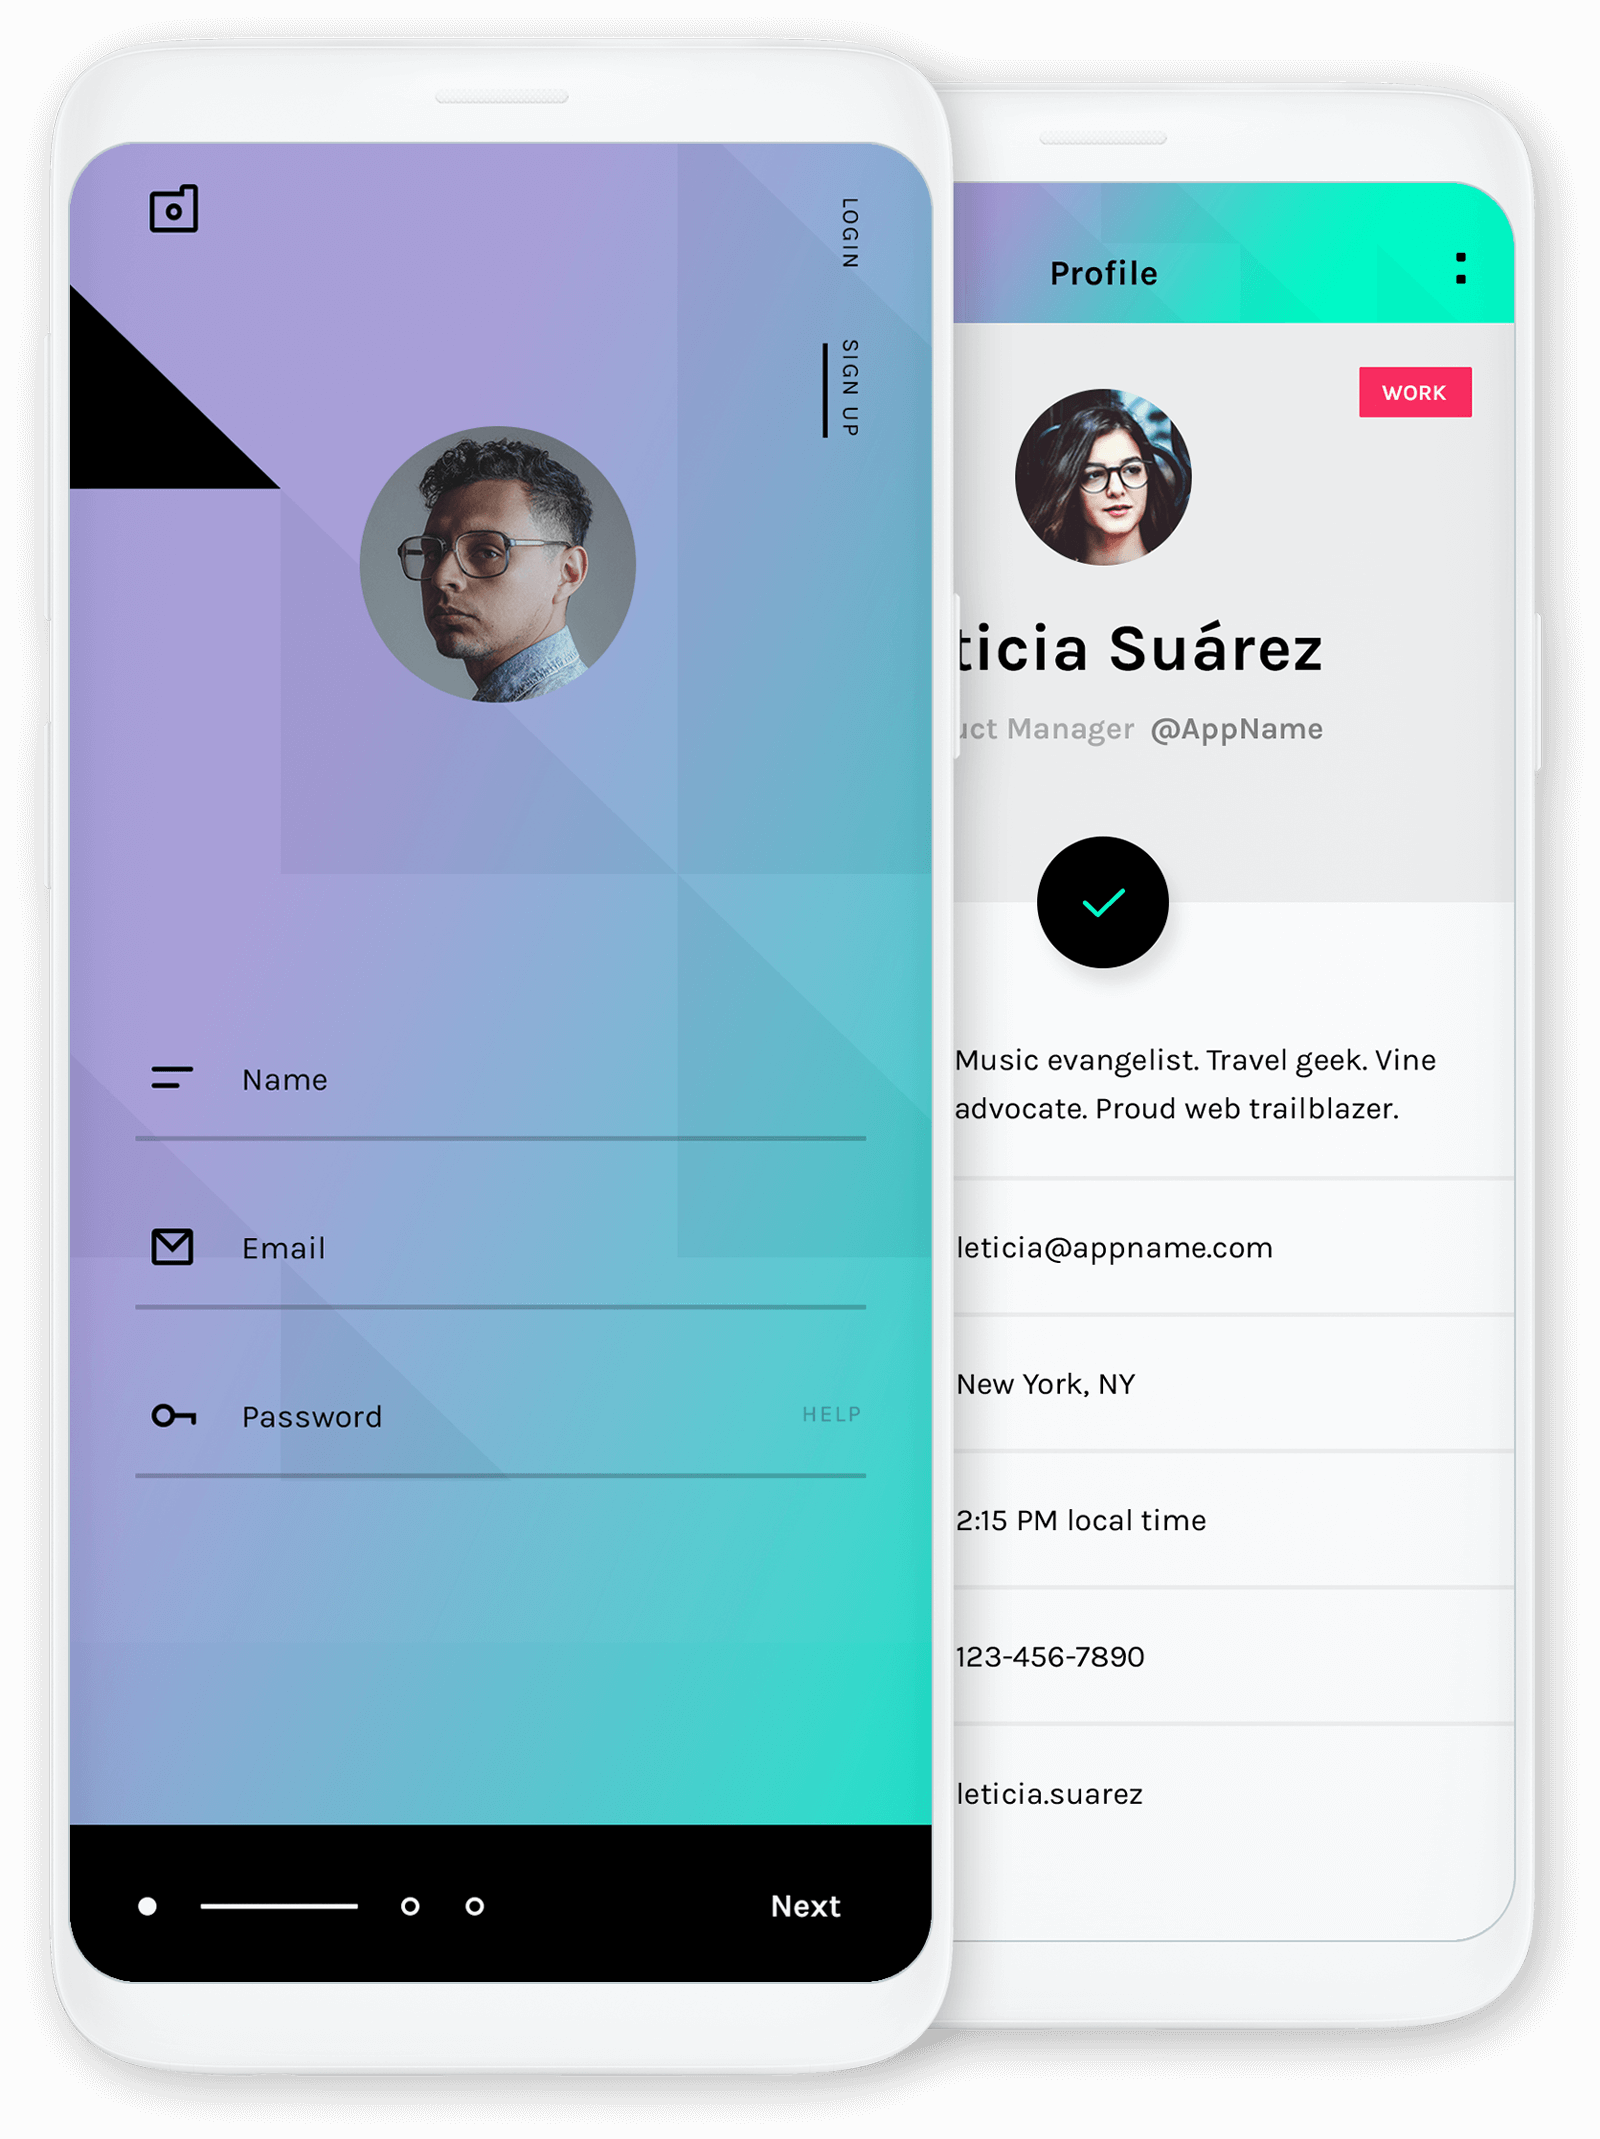
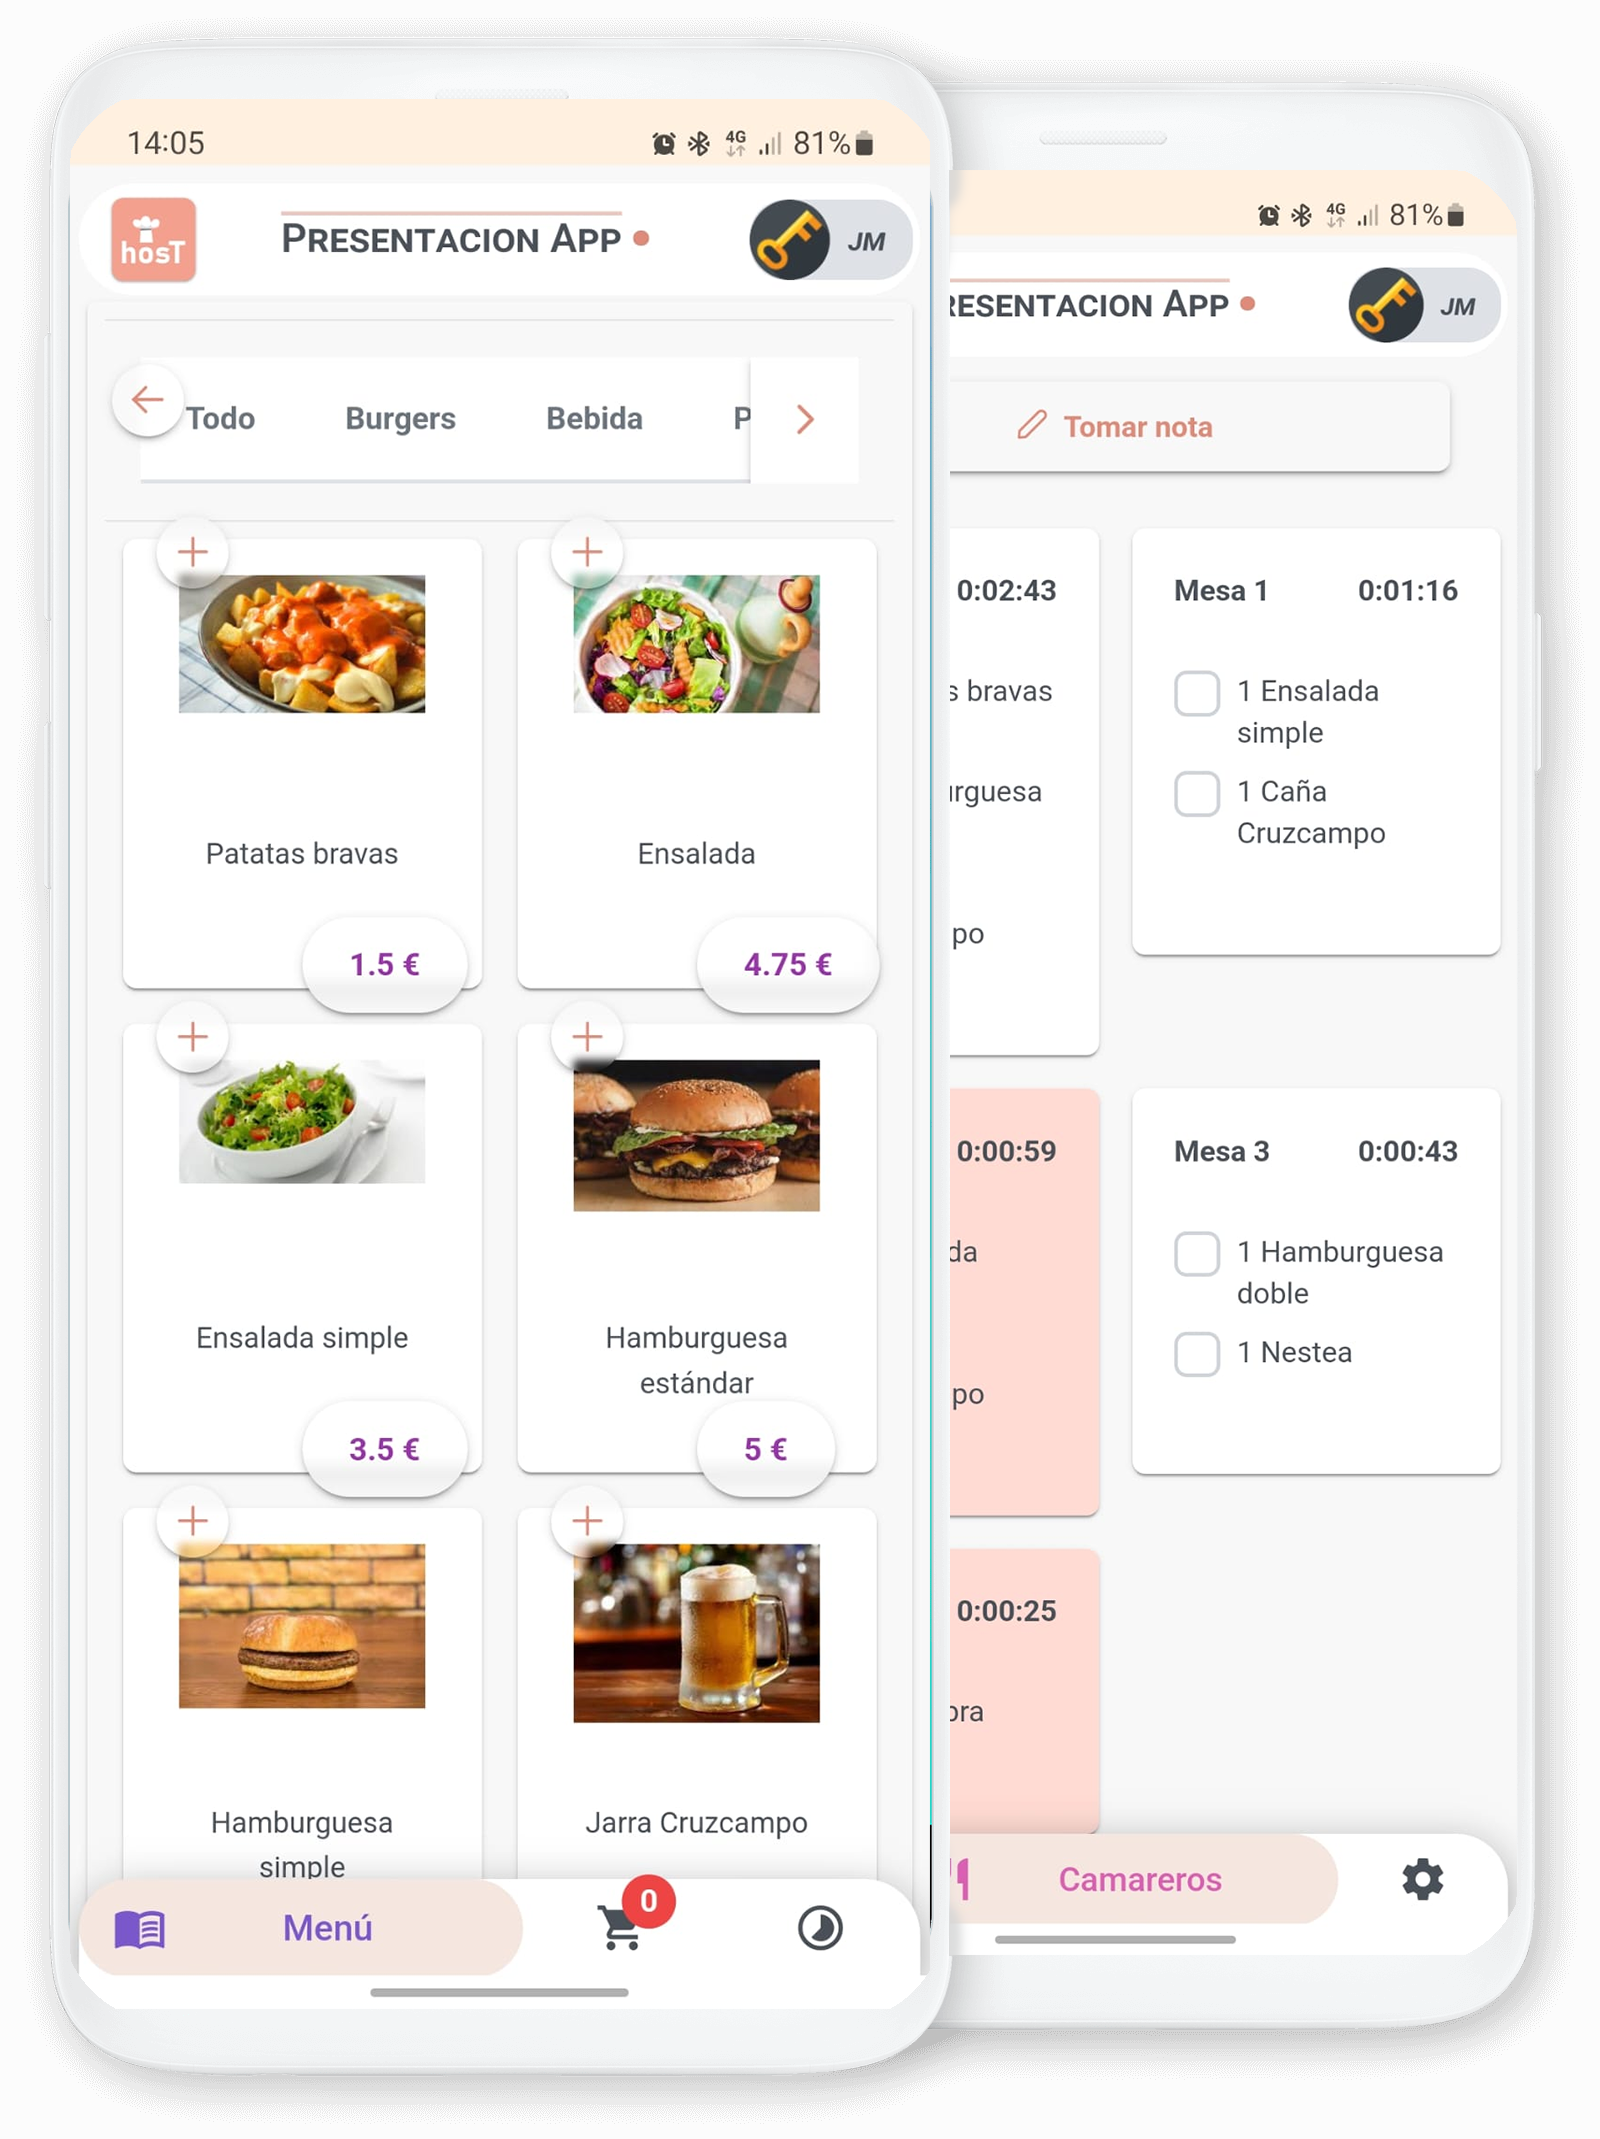
app image

diff --git a/index.html b/index.html
@@ -104,7 +104,7 @@
                 </div> <!-- end home-content__left-->
 
                 <div class="home-content__right">
-                    <img src="images/hero-app-screens-800.png" srcset="images/hero-app-screens-800.png 1x, images/hero-app-screens-1600.png 2x">
+                    <img src="images/hero-app-screens-1600.png">
                 </div> <!-- end home-content__right -->
 
             </div> <!-- end home-content__main -->
